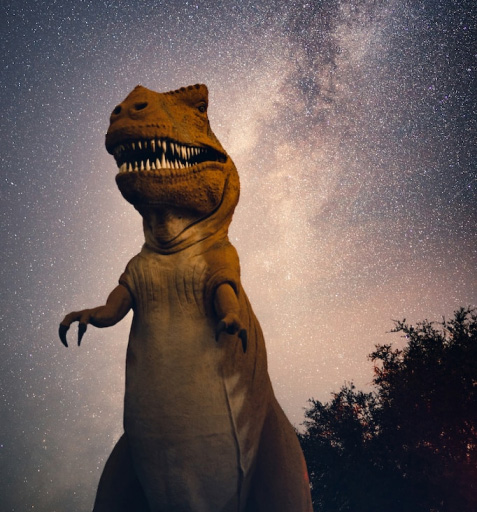
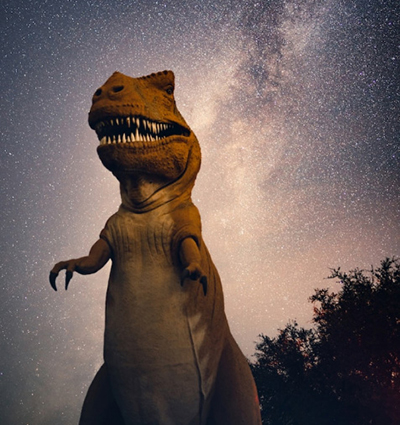
updates to index.html

diff --git a/index.html b/index.html
@@ -33,6 +33,54 @@
                 <a href="exhibitions.html" class="btn-large">Explore</a>
             </div>
         </section>
+        <h2>Special Events</h2>
+        <section class="events">
+            <div class="happening">
+                <p class="subhead">Visiting Professor of Aeronautics</p>
+                <p>Professor Sheila Widnall from the Massachusetts Institute of Technology will be delivering lectures on the development of aeronautics and where the future lies in this exciting "space".</p>
+            </div>
+            <div class="happening">
+                <p class="subhead">Night in the Museum</p>
+                <p>Get your family together for an exciting night in the museum as you sleep over beside dinosaurs and science displays. Bring your own sleeping bag and get ready to go exploring the wonders of science.</p>
+            </div>
+            <div class="happening">
+                <p class="subhead">Energetica Exhibition on Loan</p>
+                <p>From the NEMO Science Museum in Amsterdam
+                    Solar energy powering lighting, and "Wind Island" that shows how turbines are able to use and control wind to create power.</p>
+            </div>
+        </section>
+        <h3>Exhibition Spaces</h3>
+        <section class="spaces">
+            <div class="space-square">
+                <img src="Images/dino2.jpg" alt="Tyrannosaurus rex walking with starry sky behind">
+                <p>Evolution</p>
+                <a href="exhibitions.html" class="btn-small">Explore</a>
+            </div>
+            <div class="space-square">
+                <img src="Images/medicine.jpg" alt="Erlenmeyer Science Flask filled with medicine">
+                <p>Biology & medicine</p>
+                <a href="exhibitions.html" class="btn-small">Explore</a>
+            </div>
+            <div class="space-square">
+                <img src="Images/robot1.jpg" alt="White Robot with blue details">
+                <p>Robotics & AI</p>
+                <a href="exhibitions.html" class="btn-small">Explore</a>
+            </div>
+        </section>
+        <section class="left">
+            <img src="Images/food.jpg" alt="Museum hall with large elephant displayed">
+            <div class="left-text">
+                <h4>Food & Drinks</h4>
+                <p>There is a café attached to the museum where you can get light lunches, soft drinks, coffee, snacks and more.</p>
+            </div>
+        </section>
+        <section class="right">
+            <img src="Images/shop.jpg" alt="View of museum shop with architectural columns">
+            <div class="right-text">
+                <h5>Science Shop</h5>
+                <p>Our shop offers a range of memorabilia from the museum as well as great gifts and activity packs that allow you to continue to explore science even after you’ve left the museum.</p>
+            </div>
+        </section>
     </main>
 </body>
 </html>

diff --git a/CSS/index.css b/CSS/index.css
@@ -9,13 +9,13 @@
     width: 100%;
 }
 
-
 .btn-large {
-    margin-left: 10%;
+    margin-left: 35%;
 }
 
 .main-img {
     position: absolute;
+    z-index: 999;
     left: 45%;
     transform: translateX(-5%);
     min-width: 210px;
@@ -24,8 +24,112 @@
 .main-img p { 
     font-size: 20px;
     margin-top: -1rem;
+    text-align: center;
 }
 
+.events {
+    display: flex;
+    flex-direction: column;
+    align-items: center;
+    justify-items: center; 
+}
+
+.subhead {
+    text-align: center;
+    font-weight: bold;
+    font-size: 23px;
+}
+
+.happening {
+    text-align: center;
+    width: 370px;
+    margin-left: 20px;
+    margin-right: 20px;
+    margin-bottom: 20px;
+}
+
+.happening:hover {
+    background-color: #1C1E2D;
+  }
+
+p {
+    font-size: 20px;
+}
+
+h2, p {
+    margin: 15px;
+}
+
+.spaces {
+    display: flex;
+    flex-direction: column;
+    align-items: center;
+    justify-content: center;
+    gap: 30px;
+}
+
+.spaces img {
+    max-width: 400px;
+    max-height: auto;
+}
+
+.space-square {
+    background-color: #1C1E2D;
+    text-align: center;
+    padding-bottom: 25px;
+}
+
+.space-square p {
+    text-transform: uppercase;
+    margin-bottom: 25px;
+}
+
+.left {
+    margin-top: 40px;
+    display: flex;
+    flex-wrap: wrap;
+    justify-content: left;
+    align-items: center;
+    background-color: #1C1E2D;
+    width: 850px;
+    padding: 25px;
+}
+
+.left img {
+    max-width: 100%;
+    max-height: 100%;
+    margin-right: 70px;
+}
+
+.left p {
+    width: 349px;
+    text-align: center;
+    margin-top: -2rem;
+}
+
+.right {
+    margin-top: 40px;
+    display: flex;
+    flex-direction: row-reverse;
+    justify-content: right;
+    align-items: center;
+    background-color: #1C1E2D;
+    padding: 25px;
+    width: 850px;
+    margin-left: 36%;
+}
+
+.right img {
+    max-width: 100%;
+    max-height: 100%;
+    margin-left: 30px;
+}
+
+.right p {
+    width: 349px;
+    text-align: center;
+    margin-top: -2rem;
+}
 
 @media (min-width: 600px) {
     .welcome {
@@ -41,6 +145,7 @@
     .main-img p { 
         margin-top: -3rem;
         font-size: 30px;
+        text-align: left;
     }
 
     .btn-large {
@@ -56,4 +161,18 @@
     .main-img p { 
         font-size: 40px;
     }
+
+    .events {
+        display: flex;
+        flex-direction: row;
+        justify-content: center;
+    }
+
+    .spaces {
+        display: flex;
+        flex-flow: row wrap;
+        align-content: center;
+        justify-content: center;
+    }
+
 }

diff --git a/CSS/styles.css b/CSS/styles.css
@@ -12,7 +12,6 @@ body {
     font-family: "Quicksand", Verdana, sans-serif;
     color: #fff;
     background-color: #26293D;
-    overflow: hidden;
 }
 
 header {
@@ -50,11 +49,16 @@ nav, #menu-checkbox {
 
 #menu-checkbox:checked ~ nav {
     display: block;
+    position: absolute;
+    z-index: 1;
+    margin-left: -50px;
+    margin-top: -5px;
 }
 
 nav li {
     display: block;
 }
+
 
 nav a {
     display: block;
@@ -68,14 +72,15 @@ nav a {
     font-size: 20px;
 }
 
-h1 {
+h1, h2, h3, h4, h5 {
     font-family: "LeagueSpartan", Verdana, sans-serif;
     text-transform: uppercase;
     font-size: 30px;
     font-weight: bold;
+    text-align: center;
 }
 
-.btn-large {
+.btn-large, .btn-small {
     text-transform: uppercase;
     color: #fff;
     text-decoration: none;
@@ -85,7 +90,7 @@ h1 {
     font-weight: 400;
 }
 
-.btn-large:hover {
+.btn-large:hover, .btn-small:hover {
     text-decoration: underline;
 }
 
@@ -134,7 +139,8 @@ h1 {
     }
 
     h1 {
-        font-size: 50px;
+        font-size: 45px;
+        text-align: left;
     }
 
     .btn-large {
@@ -147,6 +153,10 @@ h1 {
 @media (min-width: 1050px) {
     h1 {
         font-size: 60px;
+    }
+
+    h2, h3 {
+        font-size: 50px;
     }
 
     .site-header {
